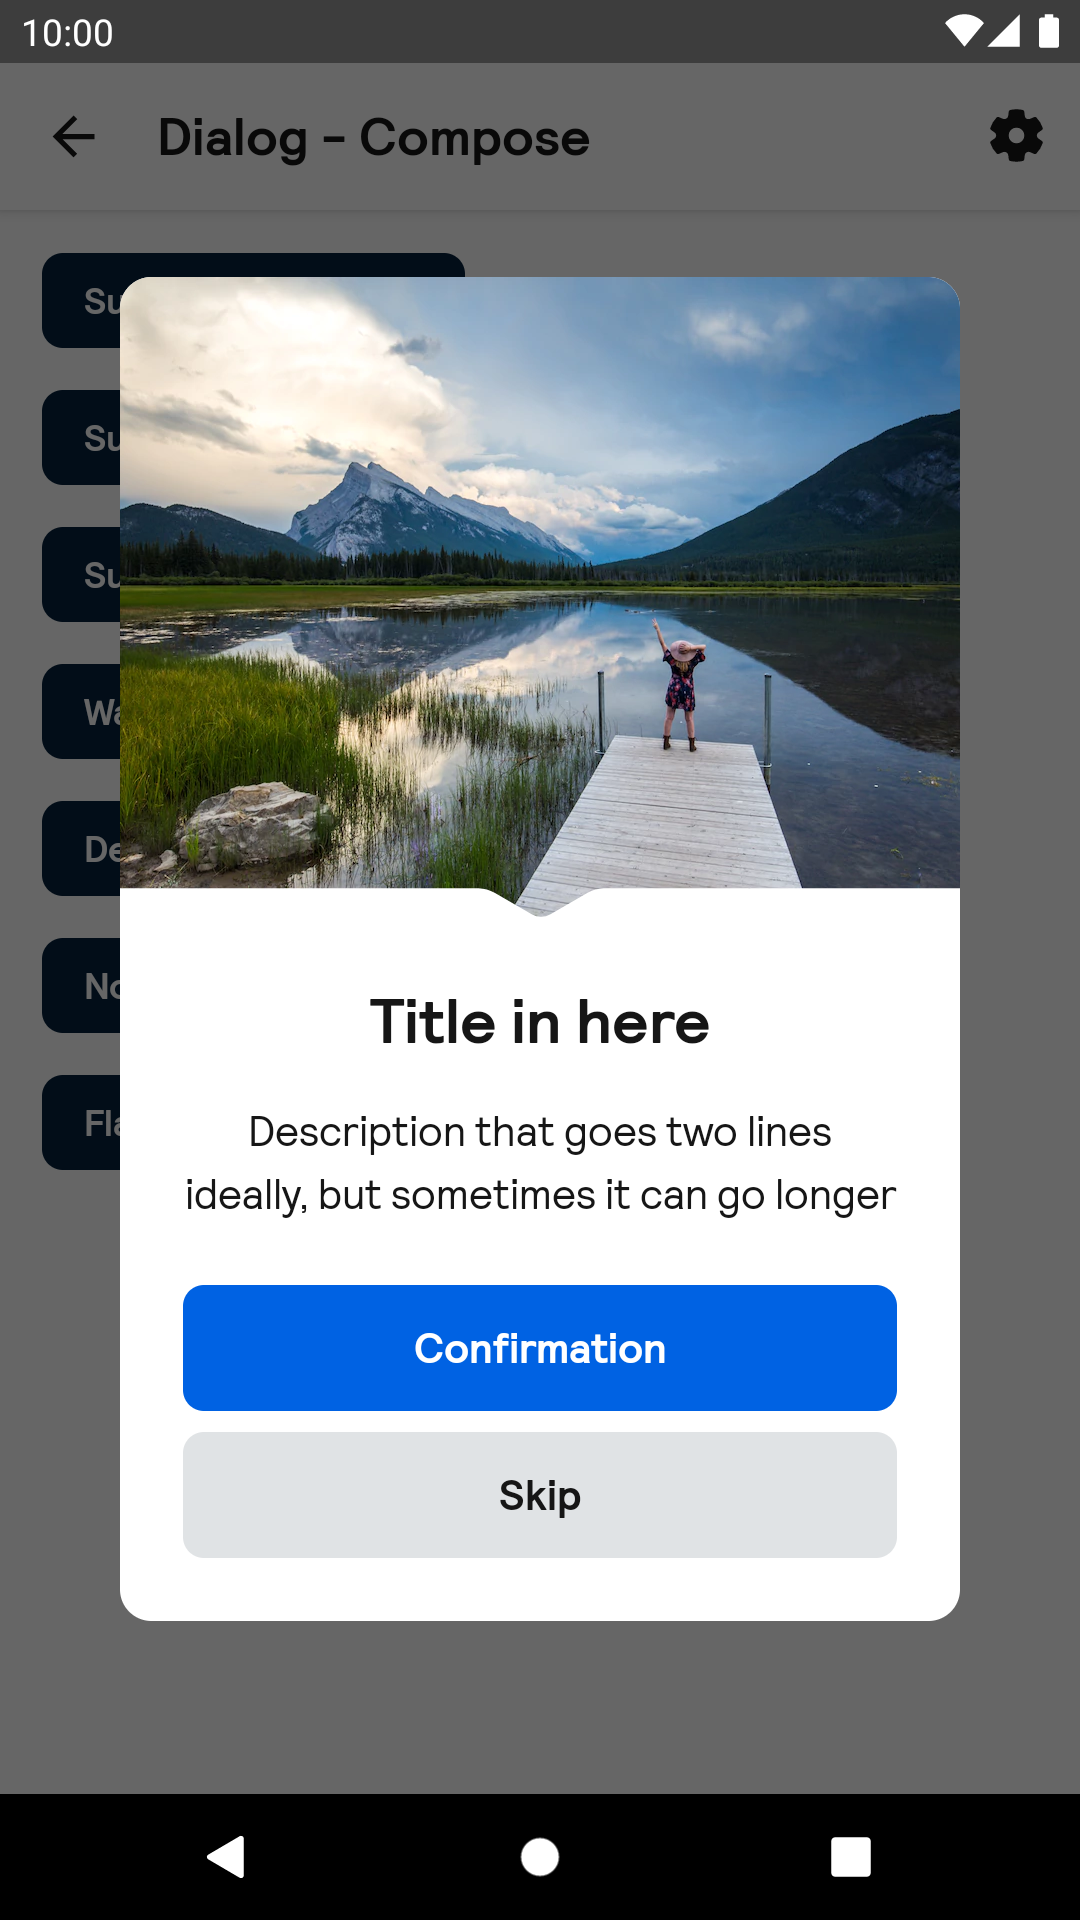
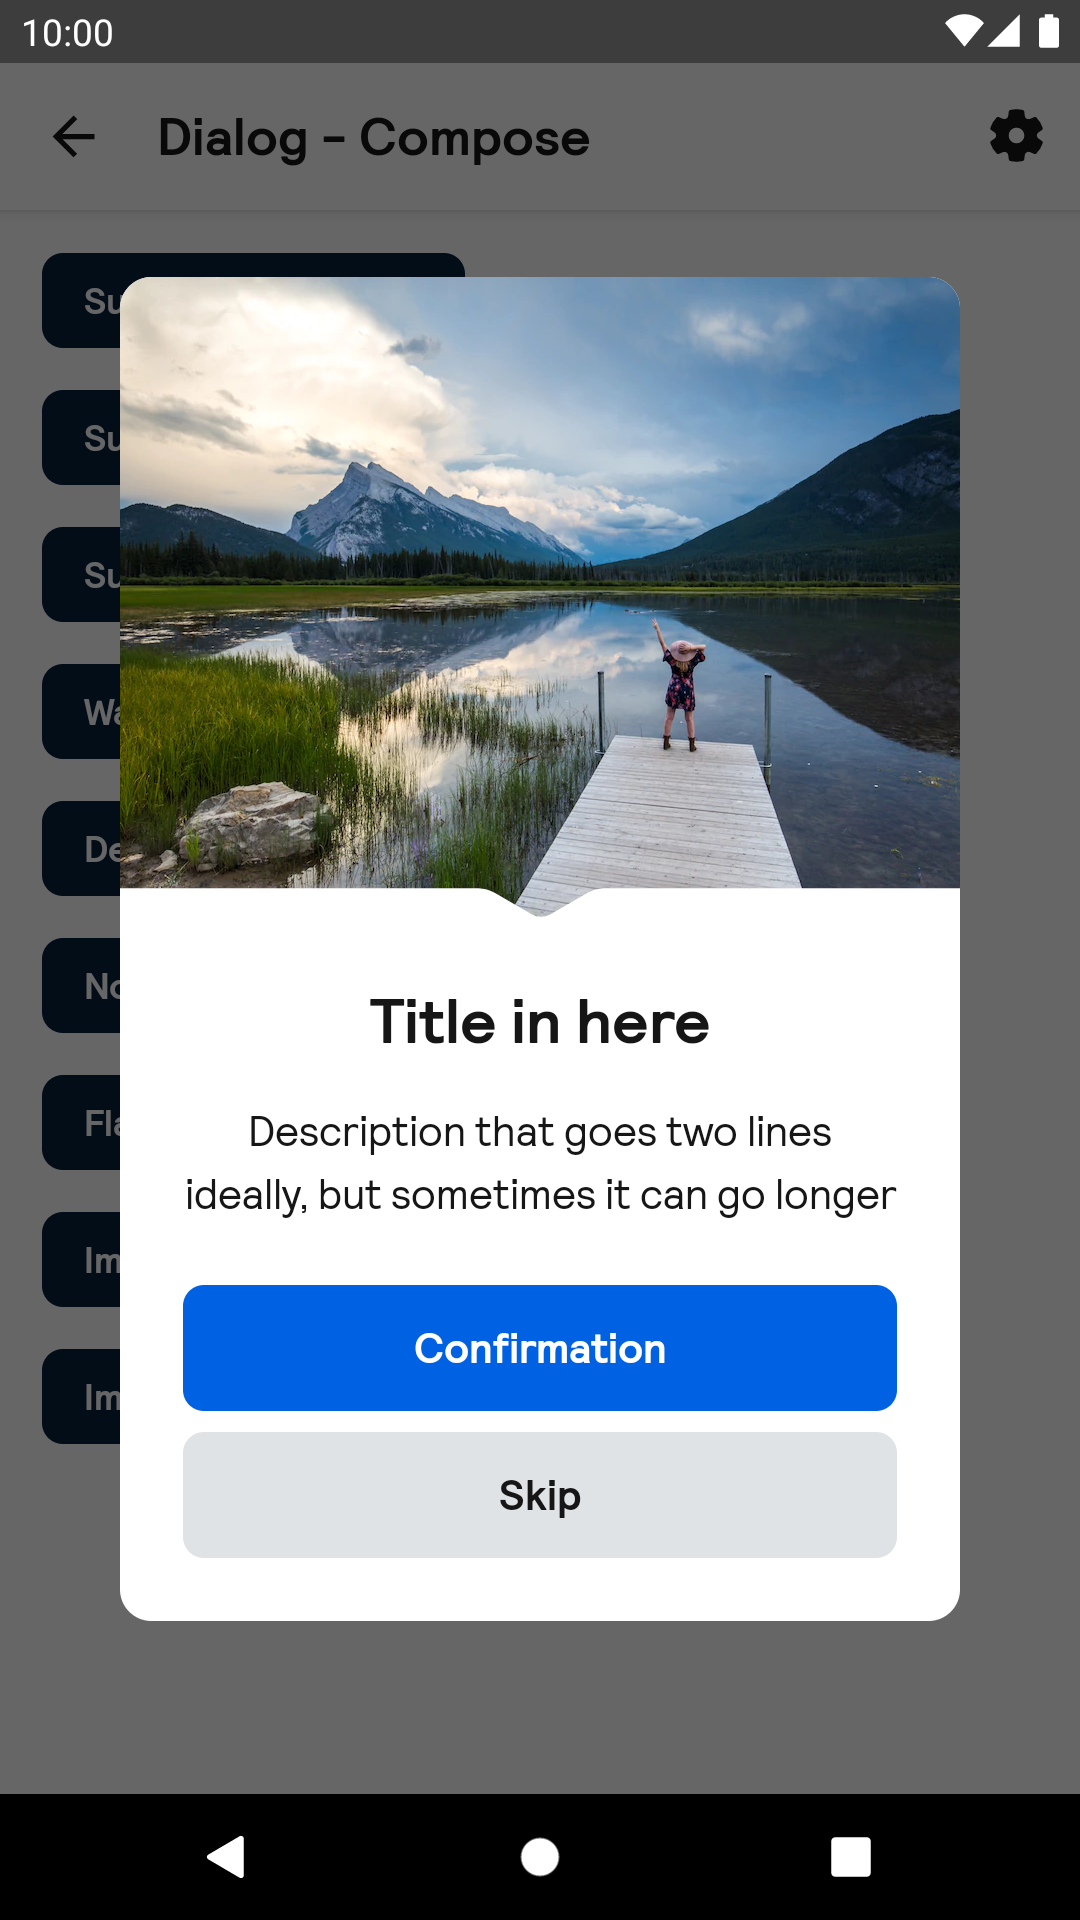
SONIC-1132 BpkImageDialog (#1324)
* SONIC-1132 add BpkImageDialog

* SONIC-1132 fix DialogStory

* SONIC-1132 add snapshot test

* Updated snapshots for 'default'

* Updated snapshots for 'dm'

* SONIC-1132 add screenshots

* SONIC-1132 remove top padding

* SONIC-1132 remove top padding from flare

* Updated snapshots for 'default'

* Updated snapshots for 'rtl'

* Updated snapshots for 'dm'

* SONIC-1132 inline DialogContent function

* SONIC-1132 bring topPadding back

* Updated snapshots for 'rtl'

* Updated snapshots for 'dm'

* SONIC-1132 fix snapshot error on CI

* SONIC-1132 add screenshot to README.md

* Updated snapshots for 'default'

* Trigger CI

* SONIC-1132 remove assumeVariant from BpkDialogTest

Changed region(s): [[0.0306, 0.625, 0.1222, 0.75]]

diff --git a/app/src/main/java/net/skyscanner/backpack/demo/compose/DialogStory.kt b/app/src/main/java/net/skyscanner/backpack/demo/compose/DialogStory.kt
@@ -33,10 +33,12 @@ import androidx.compose.ui.layout.ContentScale
 import androidx.compose.ui.platform.testTag
 import androidx.compose.ui.res.painterResource
 import androidx.compose.ui.res.stringResource
+import androidx.compose.ui.text.style.TextAlign
 import androidx.compose.ui.tooling.preview.Preview
 import net.skyscanner.backpack.compose.button.BpkButton
 import net.skyscanner.backpack.compose.dialog.BpkDestructiveDialog
 import net.skyscanner.backpack.compose.dialog.BpkFlareDialog
+import net.skyscanner.backpack.compose.dialog.BpkImageDialog
 import net.skyscanner.backpack.compose.dialog.BpkSuccessDialog
 import net.skyscanner.backpack.compose.dialog.BpkWarningDialog
 import net.skyscanner.backpack.compose.dialog.DialogButton
@@ -71,6 +73,8 @@ fun DialogStory() {
       ShownDialog.Destructive -> DestructiveDialogExample(onDismiss)
       ShownDialog.NoIcon -> NoIconDialogExample(onDismiss)
       ShownDialog.Flare -> FlareDialogExample(onDismiss)
+      ShownDialog.ImageStartAlignment -> ImageDialogStartAlignmentExample(onDismiss)
+      ShownDialog.ImageEndAlignment -> ImageDialogEndAlignmentExample(onDismiss)
       ShownDialog.None -> {}
     }
   }
@@ -84,6 +88,8 @@ enum class ShownDialog(@StringRes val buttonText: Int) {
   Destructive(R.string.dialog_destructive),
   NoIcon(R.string.dialog_no_icon),
   Flare(R.string.dialog_flare),
+  ImageStartAlignment(R.string.dialog_image_start),
+  ImageEndAlignment(R.string.dialog_image_end),
   None(R.string.generic_empty),
 }
 
@@ -175,6 +181,44 @@ fun FlareDialogExample(onDismiss: () -> Unit = {}) {
     confirmButton = DialogButton(stringResource(id = R.string.dialog_confirmation), onDismiss),
     secondaryButton = DialogButton(stringResource(id = R.string.dialog_skip), onDismiss),
     onDismissRequest = onDismiss,
+  ) {
+    Image(
+      painter = painterResource(R.drawable.canadian_rockies_canada),
+      contentDescription = stringResource(R.string.image_rockies_content_description),
+      contentScale = ContentScale.Crop,
+    )
+  }
+}
+
+@Preview
+@Composable
+fun ImageDialogStartAlignmentExample(onDismiss: () -> Unit = {}) {
+  BpkImageDialog(
+    title = stringResource(id = R.string.dialog_title),
+    text = stringResource(id = R.string.dialog_text),
+    confirmButton = DialogButton(stringResource(id = R.string.dialog_confirmation), onDismiss),
+    secondaryButton = DialogButton(stringResource(id = R.string.dialog_skip), onDismiss),
+    onDismissRequest = onDismiss,
+    textAlign = TextAlign.Start,
+  ) {
+    Image(
+      painter = painterResource(R.drawable.canadian_rockies_canada),
+      contentDescription = stringResource(R.string.image_rockies_content_description),
+      contentScale = ContentScale.Crop,
+    )
+  }
+}
+
+@Preview
+@Composable
+fun ImageDialogEndAlignmentExample(onDismiss: () -> Unit = {}) {
+  BpkImageDialog(
+    title = stringResource(id = R.string.dialog_title),
+    text = stringResource(id = R.string.dialog_text),
+    confirmButton = DialogButton(stringResource(id = R.string.dialog_confirmation), onDismiss),
+    secondaryButton = DialogButton(stringResource(id = R.string.dialog_skip), onDismiss),
+    onDismissRequest = onDismiss,
+    textAlign = TextAlign.End,
   ) {
     Image(
       painter = painterResource(R.drawable.canadian_rockies_canada),

diff --git a/backpack-compose/src/main/kotlin/net/skyscanner/backpack/compose/dialog/internal/BpkDialogImpl.kt b/backpack-compose/src/main/kotlin/net/skyscanner/backpack/compose/dialog/internal/BpkDialogImpl.kt
@@ -43,7 +43,6 @@ import net.skyscanner.backpack.compose.icon.BpkIcon
 import net.skyscanner.backpack.compose.icon.BpkIconSize
 import net.skyscanner.backpack.compose.text.BpkText
 import net.skyscanner.backpack.compose.theme.BpkTheme
-import net.skyscanner.backpack.compose.tokens.BpkColor
 import net.skyscanner.backpack.compose.tokens.BpkDimension
 import net.skyscanner.backpack.compose.tokens.BpkSpacing
 
@@ -99,28 +98,55 @@ internal fun BpkFlareDialogImpl(
 }
 
 @Composable
-private fun DialogContent(title: String, text: String, buttons: List<Dialog.Button>, modifier: Modifier = Modifier) {
+internal fun BpkImageDialogImpl(
+  onDismissRequest: () -> Unit,
+  title: String,
+  text: String,
+  buttons: List<Dialog.Button>,
+  properties: DialogProperties,
+  textAlign: TextAlign,
+  content: @Composable BoxScope.() -> Unit,
+) {
+  Dialog(onDismissRequest = onDismissRequest, properties = properties) {
+    Surface(
+      modifier = Modifier.padding(top = IconPadding),
+      shape = BpkTheme.shapes.medium,
+      color = BpkTheme.colors.surfaceDefault,
+    ) {
+      Column {
+        Box(content = content)
+        DialogContent(title = title, text = text, textAlign = textAlign, buttons = buttons)
+      }
+    }
+  }
+}
+
+@Composable
+private fun DialogContent(title: String, text: String, buttons: List<Dialog.Button>, modifier: Modifier = Modifier, textAlign: TextAlign = TextAlign.Center) {
   Column(
     modifier = modifier.padding(BpkDimension.Spacing.Lg),
     horizontalAlignment = Alignment.CenterHorizontally,
   ) {
-    DialogTextContent(title = title, text = text)
+    DialogTextContent(title = title, text = text, textAlign = textAlign)
     DialogButtons(buttons)
   }
 }
 
 @Composable
-private fun DialogTextContent(title: String, text: String) {
+private fun DialogTextContent(title: String, text: String, textAlign: TextAlign) {
   BpkText(
+    modifier = Modifier.fillMaxWidth(),
     text = title,
     style = BpkTheme.typography.heading3,
-    textAlign = TextAlign.Center,
+    textAlign = textAlign,
     color = BpkTheme.colors.textPrimary,
   )
   BpkText(
-    modifier = Modifier.padding(top = BpkDimension.Spacing.Base, bottom = BpkDimension.Spacing.Lg),
+    modifier = Modifier
+      .fillMaxWidth()
+      .padding(top = BpkDimension.Spacing.Base, bottom = BpkDimension.Spacing.Lg),
     text = text,
-    textAlign = TextAlign.Center,
+    textAlign = textAlign,
     color = BpkTheme.colors.textPrimary,
   )
 }

diff --git a/backpack-compose/src/main/kotlin/net/skyscanner/backpack/compose/dialog/BpkDialog.kt b/backpack-compose/src/main/kotlin/net/skyscanner/backpack/compose/dialog/BpkDialog.kt
@@ -20,10 +20,12 @@ package net.skyscanner.backpack.compose.dialog
 
 import androidx.compose.foundation.layout.BoxScope
 import androidx.compose.runtime.Composable
+import androidx.compose.ui.text.style.TextAlign
 import androidx.compose.ui.window.DialogProperties
 import net.skyscanner.backpack.compose.button.BpkButtonType
 import net.skyscanner.backpack.compose.dialog.internal.BpkDialogImpl
 import net.skyscanner.backpack.compose.dialog.internal.BpkFlareDialogImpl
+import net.skyscanner.backpack.compose.dialog.internal.BpkImageDialogImpl
 import net.skyscanner.backpack.compose.dialog.internal.Dialog
 import net.skyscanner.backpack.compose.icon.BpkIcon
 
@@ -190,6 +192,33 @@ fun BpkFlareDialog(
     ),
     onDismissRequest = onDismissRequest,
     properties = properties,
+    content = content,
+  )
+}
+
+@Composable
+fun BpkImageDialog(
+  onDismissRequest: () -> Unit,
+  title: String,
+  text: String,
+  confirmButton: DialogButton,
+  secondaryButton: DialogButton,
+  linkButton: DialogButton? = null,
+  textAlign: TextAlign = TextAlign.Center,
+  properties: DialogProperties = DialogProperties(),
+  content: @Composable BoxScope.() -> Unit,
+) {
+  BpkImageDialogImpl(
+    title = title,
+    text = text,
+    buttons = listOfNotNull(
+      Dialog.Button(BpkButtonType.Featured, confirmButton),
+      Dialog.Button(BpkButtonType.Secondary, secondaryButton),
+      linkButton?.let { Dialog.Button(BpkButtonType.Link, linkButton) },
+    ),
+    onDismissRequest = onDismissRequest,
+    properties = properties,
+    textAlign = textAlign,
     content = content,
   )
 }

diff --git a/app/src/androidTest/java/net/skyscanner/backpack/compose/dialog/BpkDialogTest.kt b/app/src/androidTest/java/net/skyscanner/backpack/compose/dialog/BpkDialogTest.kt
@@ -36,6 +36,8 @@ import net.skyscanner.backpack.demo.R
 import net.skyscanner.backpack.demo.compose.BackpackPreview
 import net.skyscanner.backpack.demo.compose.DestructiveDialogExample
 import net.skyscanner.backpack.demo.compose.FlareDialogExample
+import net.skyscanner.backpack.demo.compose.ImageDialogEndAlignmentExample
+import net.skyscanner.backpack.demo.compose.ImageDialogStartAlignmentExample
 import net.skyscanner.backpack.demo.compose.NoIconDialogExample
 import net.skyscanner.backpack.demo.compose.SuccessOneButtonDialogExample
 import net.skyscanner.backpack.demo.compose.SuccessThreeButtonsDialogExample
@@ -112,6 +114,22 @@ class BpkDialogTest : BpkSnapshotTest() {
     assumeVariant(BpkTestVariant.Default, BpkTestVariant.DarkMode)
     record {
       FlareDialogExample()
+    }
+  }
+
+  @Test
+  fun imageStartAlignment() {
+    setDimensions(height = 700, width = 420)
+    record {
+      ImageDialogStartAlignmentExample()
+    }
+  }
+
+  @Test
+  fun imageEndAlignment() {
+    setDimensions(height = 700, width = 420)
+    record {
+      ImageDialogEndAlignmentExample()
     }
   }
 

diff --git a/app/src/androidTest/java/net/skyscanner/backpack/docs/DocsRegistry.kt b/app/src/androidTest/java/net/skyscanner/backpack/docs/DocsRegistry.kt
@@ -86,6 +86,12 @@ object DocsRegistry {
     ComposeScreenshot("Dialog - Compose", "warning") { setupComposeDialog(it, ShownDialog.Warning) },
     ComposeScreenshot("Dialog - Compose", "destructive") { setupComposeDialog(it, ShownDialog.Destructive) },
     ComposeScreenshot("Dialog - Compose", "flare") { setupComposeDialog(it, ShownDialog.Flare) },
+    ComposeScreenshot("Dialog - Compose", "image-start-alignment") {
+      setupComposeDialog(it, ShownDialog.ImageStartAlignment)
+    },
+    ComposeScreenshot("Dialog - Compose", "image-end-alignment") {
+      setupComposeDialog(it, ShownDialog.ImageEndAlignment)
+    },
     ComposeScreenshot("FieldSet", "default"),
     ComposeScreenshot("FieldSet", "disabled") { it.switchFieldStatus(BpkFieldStatus.Disabled) },
     ComposeScreenshot("FieldSet", "validated") { it.switchFieldStatus(BpkFieldStatus.Validated) },

diff --git a/docs/compose/Dialog/README.md b/docs/compose/Dialog/README.md
@@ -28,6 +28,12 @@
 | --- | --- |
 | <img src="https://raw.githubusercontent.com/Skyscanner/backpack-android/main/docs/compose/Dialog/screenshots/flare.png" alt="Flare Dialog component" width="375" /> |<img src="https://raw.githubusercontent.com/Skyscanner/backpack-android/main/docs/compose/Dialog/screenshots/flare_dm.png" alt="Flare Dialog component - dark mode" width="375" /> |
 
+## Image
+
+| Day | Night |
+| --- | --- |
+| <img src="https://raw.githubusercontent.com/Skyscanner/backpack-android/main/docs/compose/Dialog/screenshots/image-start-alignment.png" alt="Image Dialog component" width="375" /> | <img src="https://raw.githubusercontent.com/Skyscanner/backpack-android/main/docs/compose/Dialog/screenshots/image-start-alignment_dm.png" alt="Image Dialog component - dark mode" width="375" /> |
+
 ## Installation
 
 Backpack Compose is available
@@ -39,7 +45,7 @@ main [Readme](https://github.com/skyscanner/backpack-android#installation) for a
 Example of a success dialog with three buttons
 
 ```Kotlin
-import net.skyscanner.backpack.compose.dialog.BpkDialog
+import net.skyscanner.backpack.compose.dialog.BpkSuccessDialog
 import net.skyscanner.backpack.compose.icons.BpkIcons
 
 BpkSuccessDialog(
@@ -57,7 +63,7 @@ BpkSuccessDialog(
 Example of a warning dialog with two buttons
 
 ```Kotlin
-import net.skyscanner.backpack.compose.dialog.BpkDialog
+import net.skyscanner.backpack.compose.dialog.BpkWarningDialog
 import net.skyscanner.backpack.compose.icons.BpkIcons
 
 BpkWarningDialog(
@@ -74,7 +80,7 @@ BpkWarningDialog(
 Example of a destructive dialog with two buttons
 
 ```Kotlin
-import net.skyscanner.backpack.compose.dialog.BpkDialog
+import net.skyscanner.backpack.compose.dialog.BpkDestructiveDialog
 import net.skyscanner.backpack.compose.icons.BpkIcons
 
 BpkDestructiveDialog(
@@ -93,7 +99,7 @@ Example of a flare dialog
 
 ```Kotlin
 import androidx.compose.foundation.Image
-import net.skyscanner.backpack.compose.dialog.BpkDialog
+import net.skyscanner.backpack.compose.dialog.BpkFlareDialog
 import net.skyscanner.backpack.compose.icons.BpkIcons
 
 BpkFlareDialog(
@@ -106,6 +112,30 @@ BpkFlareDialog(
   Image(
     painter = painterResource(R.drawable.flare_image),
     contentDescription = stringResource(R.string.flare_image_content_description),
+    contentScale = ContentScale.Crop,
+  )
+}
+```
+
+Example of an image dialog
+
+```Kotlin
+import androidx.compose.foundation.Image
+import net.skyscanner.backpack.compose.dialog.BpkImageDialog
+import net.skyscanner.backpack.compose.icons.BpkIcons
+import androidx.compose.ui.text.style.TextAlign
+
+BpkImageDialog(
+  title = stringResource(id = R.string.dialog_title),
+  text = stringResource(id = R.string.dialog_text),
+  confirmButton = DialogButton(stringResource(id = R.string.dialog_confirmation), onDismiss),
+  secondaryButton = DialogButton(stringResource(id = R.string.dialog_skip), onDismiss),
+  onDismissRequest = onDismiss,
+  textAlign = TextAlign.Start
+) {
+  Image(
+    painter = painterResource(R.drawable.canadian_rockies_canada),
+    contentDescription = stringResource(R.string.image_rockies_content_description),
     contentScale = ContentScale.Crop,
   )
 }
